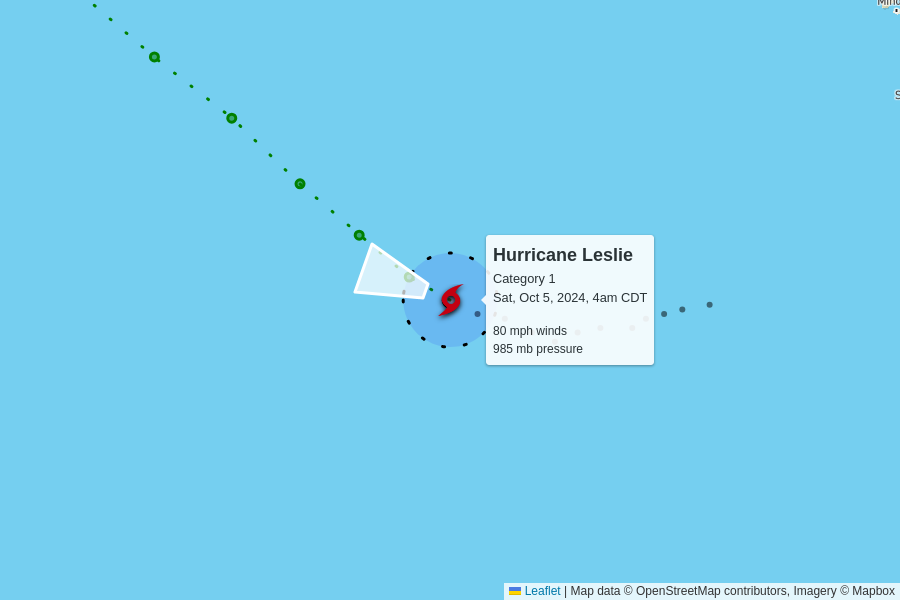
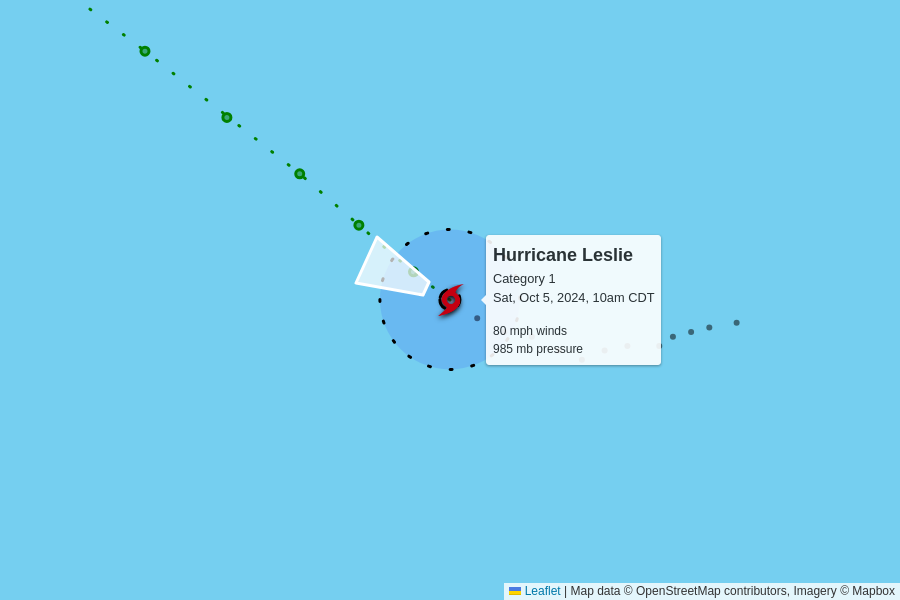
automatic update

diff --git a/docs/index.html b/docs/index.html
@@ -96,7 +96,7 @@
     </p>
 
     
-    <h2>2 active storms</h2>
+    <h2>3 active storms</h2>
     <img src="active.png">
 
     <table>
@@ -104,7 +104,7 @@
         <td colspan="6" class="storm category-3" >
           <h2>
             Hurricane Kirk - Category 3
-            <p class="updated">last updated <span data-time>2024-10-05T09:00:00.000Z</span></p>
+            <p class="updated">last updated <span data-time>2024-10-05T15:00:00.000Z</span></p>
           </h2>
         </td>
       </tr>
@@ -119,12 +119,12 @@
       </tr>
       <tr>
         <td class="spacer"></td>
-        <td>125 mph<br>-5 mph since last update</td>
-        <td>945 mb<br>+2 mb since last update</td>
+        <td>120 mph<br>-5 mph since last update</td>
+        <td>949 mb<br>+4 mb since last update</td>
         <td>
-          13 mph to the north-northwest
+          16 mph to the north
           <br/>
-          <span style="display: inline-block; font-size: 1.5em; transform: rotate(340deg);">↑</span>
+          <span style="display: inline-block; font-size: 1.5em; transform: rotate(355deg);">↑</span>
         </td>
         <td><a href="https://raw.githubusercontent.com/mgwalker/atlantic-hurricanes/main/data/csv/AL122024.csv">AL122024.csv</a></td>
         <td><a href="https://www.nhc.noaa.gov/archive/2024/KIRK.shtml?">NHC advisories</a></td>
@@ -148,7 +148,7 @@
         <td colspan="6" class="storm category-1" >
           <h2>
             Hurricane Leslie - Category 1
-            <p class="updated">last updated <span data-time>2024-10-05T09:00:00.000Z</span></p>
+            <p class="updated">last updated <span data-time>2024-10-05T15:00:00.000Z</span></p>
           </h2>
         </td>
       </tr>
@@ -163,12 +163,12 @@
       </tr>
       <tr>
         <td class="spacer"></td>
-        <td>80 mph<br>+5 mph since last update</td>
-        <td>985 mb<br>-4 mb since last update</td>
+        <td>80 mph<br>0 mph since last update</td>
+        <td>985 mb<br>0 mb since last update</td>
         <td>
           7 mph to the west-northwest
           <br/>
-          <span style="display: inline-block; font-size: 1.5em; transform: rotate(290deg);">↑</span>
+          <span style="display: inline-block; font-size: 1.5em; transform: rotate(295deg);">↑</span>
         </td>
         <td><a href="https://raw.githubusercontent.com/mgwalker/atlantic-hurricanes/main/data/csv/AL132024.csv">AL132024.csv</a></td>
         <td><a href="https://www.nhc.noaa.gov/archive/2024/LESLIE.shtml?">NHC advisories</a></td>
@@ -178,6 +178,50 @@
         <td colspan="5">
           <figure>
             <img src="AL132024.png">
+            <figcaption>
+              Map data &copy; <a href="https://www.openstreetmap.org/copyright">OpenStreetMap</a> contributors,
+              Imagery &copy; <a href="https://www.mapbox.com/">Mapbox</a> |
+              <a href="https://www.mapbox.com/map-feedback/" target="_blank">Improve this map</a>
+            </figcaption>
+          </figure>
+        </td>
+      </tr>
+      
+
+      <tr>
+        <td colspan="6" class="storm category-0" >
+          <h2>
+            Tropical Depression Fourteen
+            <p class="updated">last updated <span data-time>2024-10-05T15:00:00.000Z</span></p>
+          </h2>
+        </td>
+      </tr>
+      
+      <tr>
+        <th class="spacer"></th>
+        <th>wind speed</th>
+        <th>central pressure</th>
+        <th>movement</th>
+        <th>data (CSV)</th>
+        <th>National Hurricane Center</th>
+      </tr>
+      <tr>
+        <td class="spacer"></td>
+        <td>35 mph</td>
+        <td>1007 mb</td>
+        <td>
+          3 mph to the north-northeast
+          <br/>
+          <span style="display: inline-block; font-size: 1.5em; transform: rotate(25deg);">↑</span>
+        </td>
+        <td><a href="https://raw.githubusercontent.com/mgwalker/atlantic-hurricanes/main/data/csv/AL142024.csv">AL142024.csv</a></td>
+        <td><a href="https://www.nhc.noaa.gov/archive/2024/FOURTEEN.shtml?">NHC advisories</a></td>
+      </tr>
+      <tr id="storm_AL142024" >
+        <td class="spacer">
+        <td colspan="5">
+          <figure>
+            <img src="AL142024.png">
             <figcaption>
               Map data &copy; <a href="https://www.openstreetmap.org/copyright">OpenStreetMap</a> contributors,
               Imagery &copy; <a href="https://www.mapbox.com/">Mapbox</a> |
